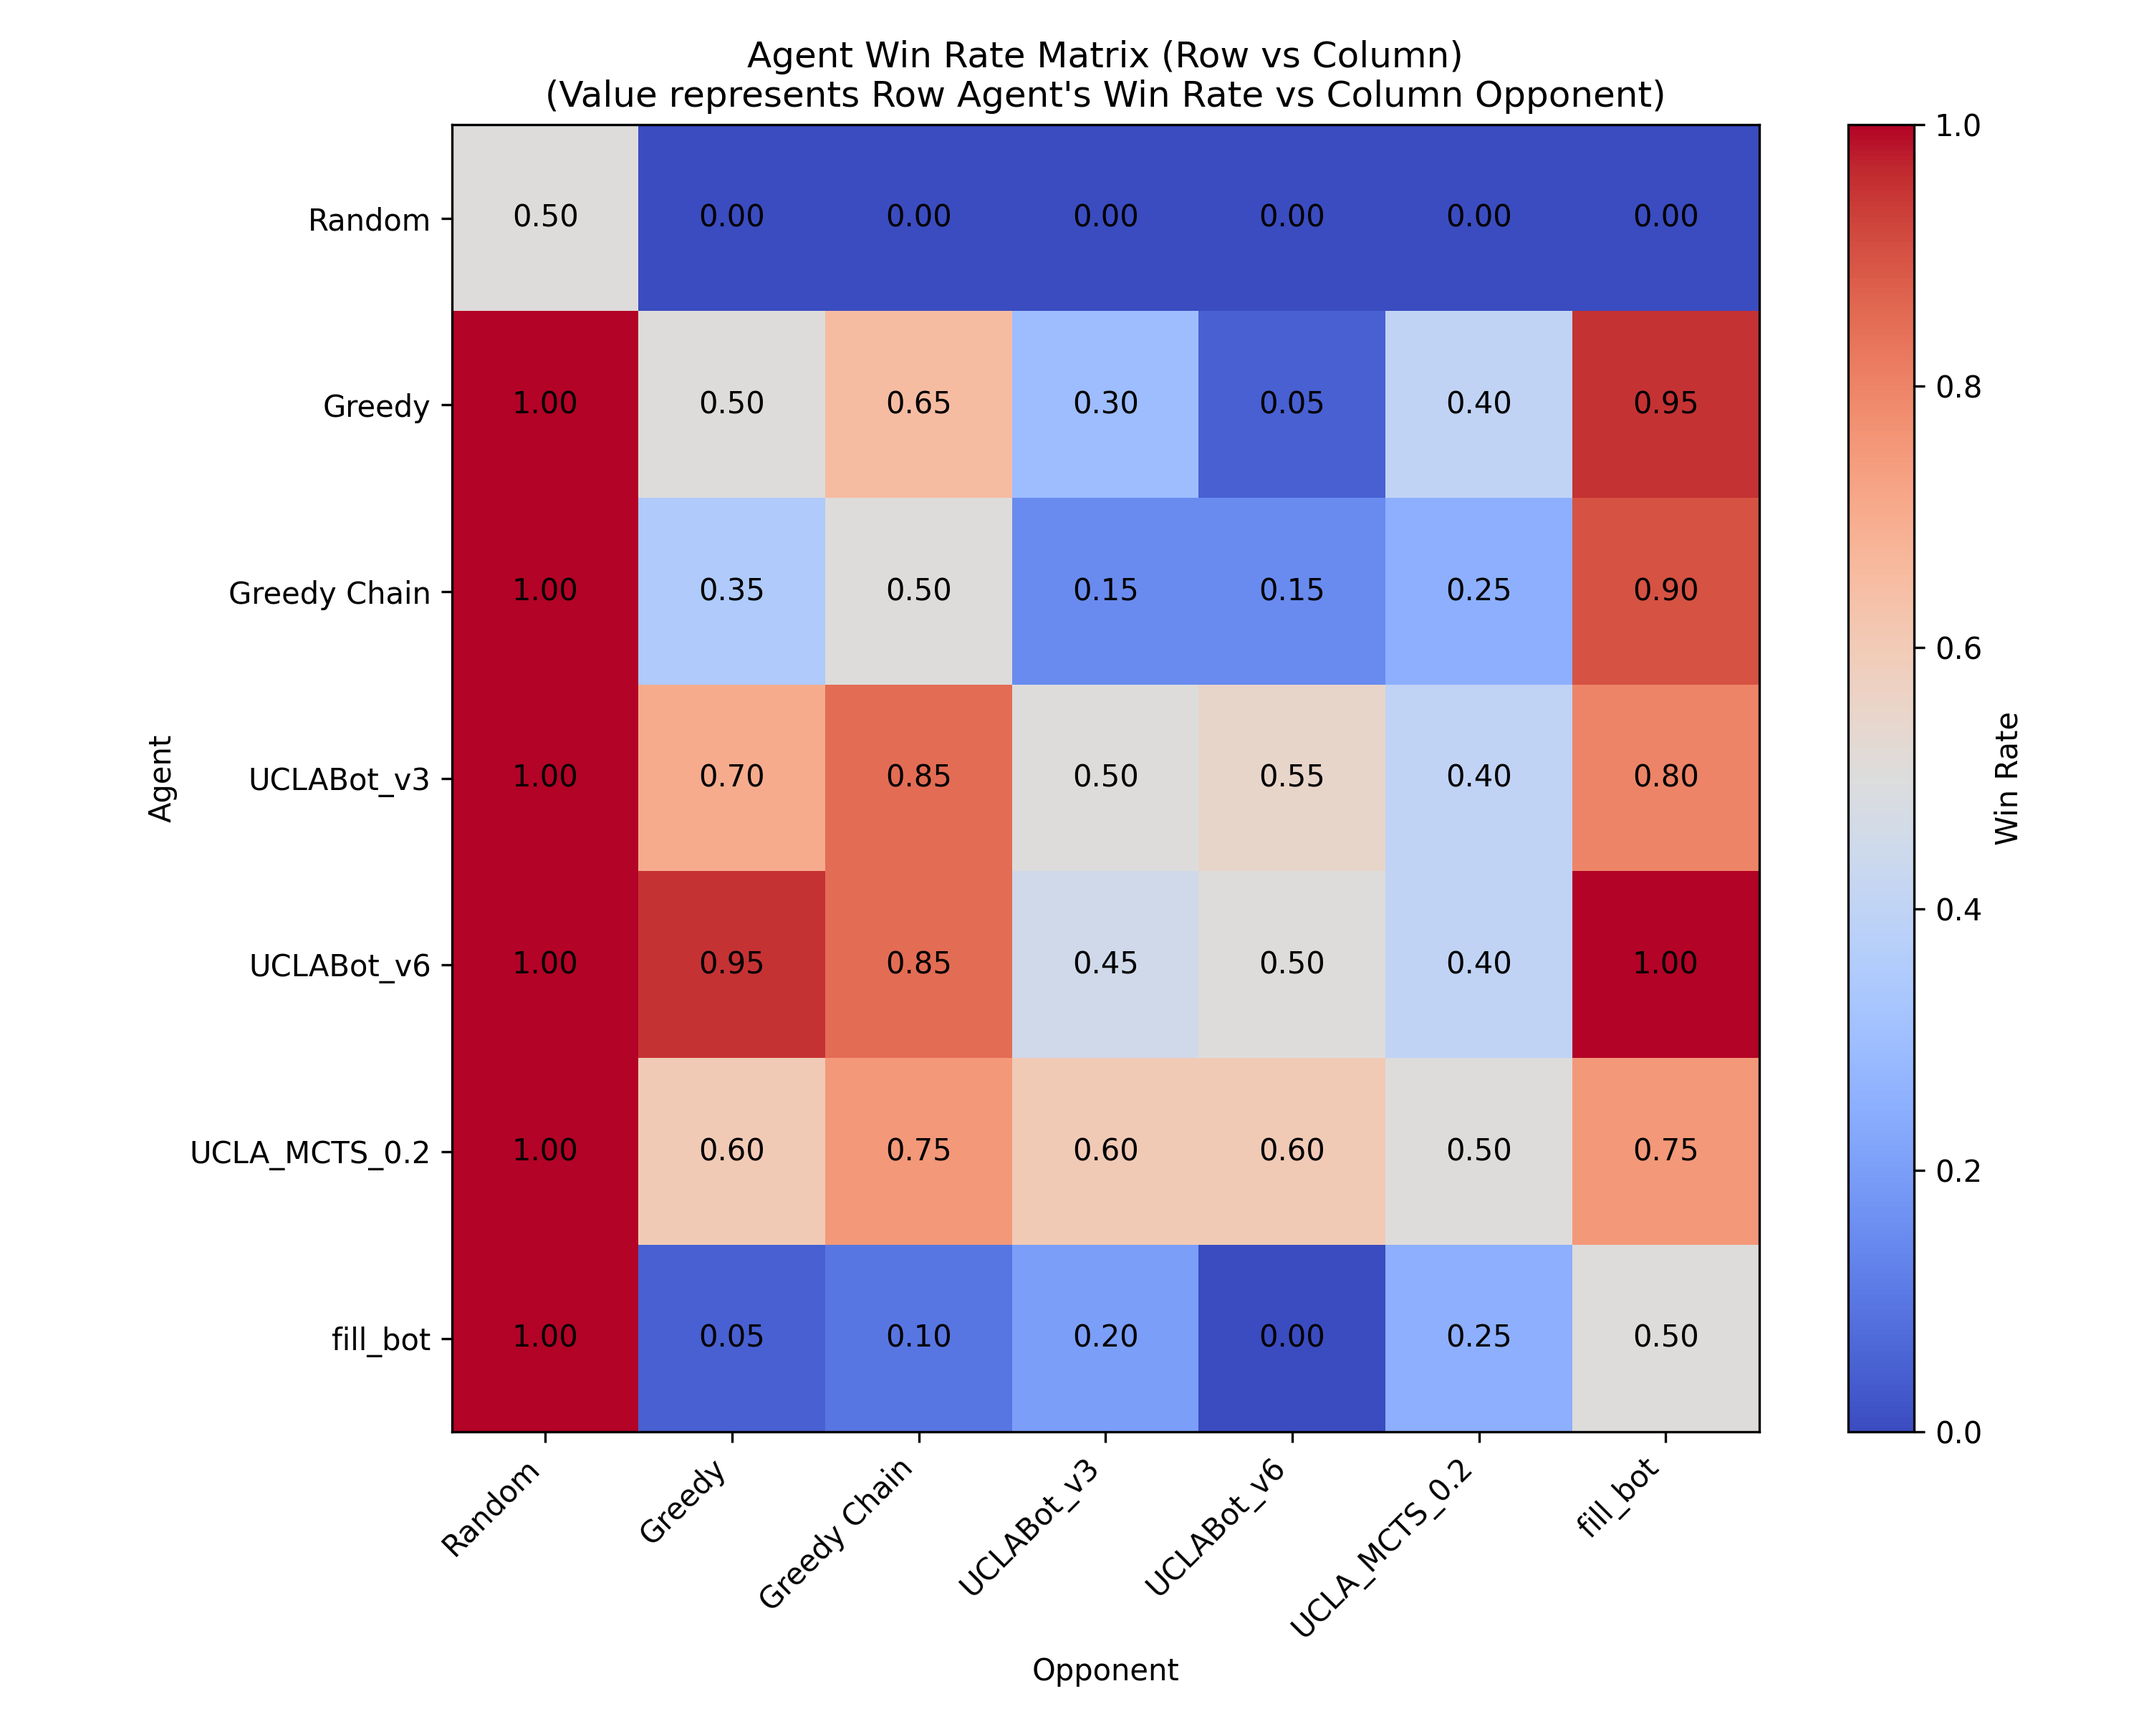
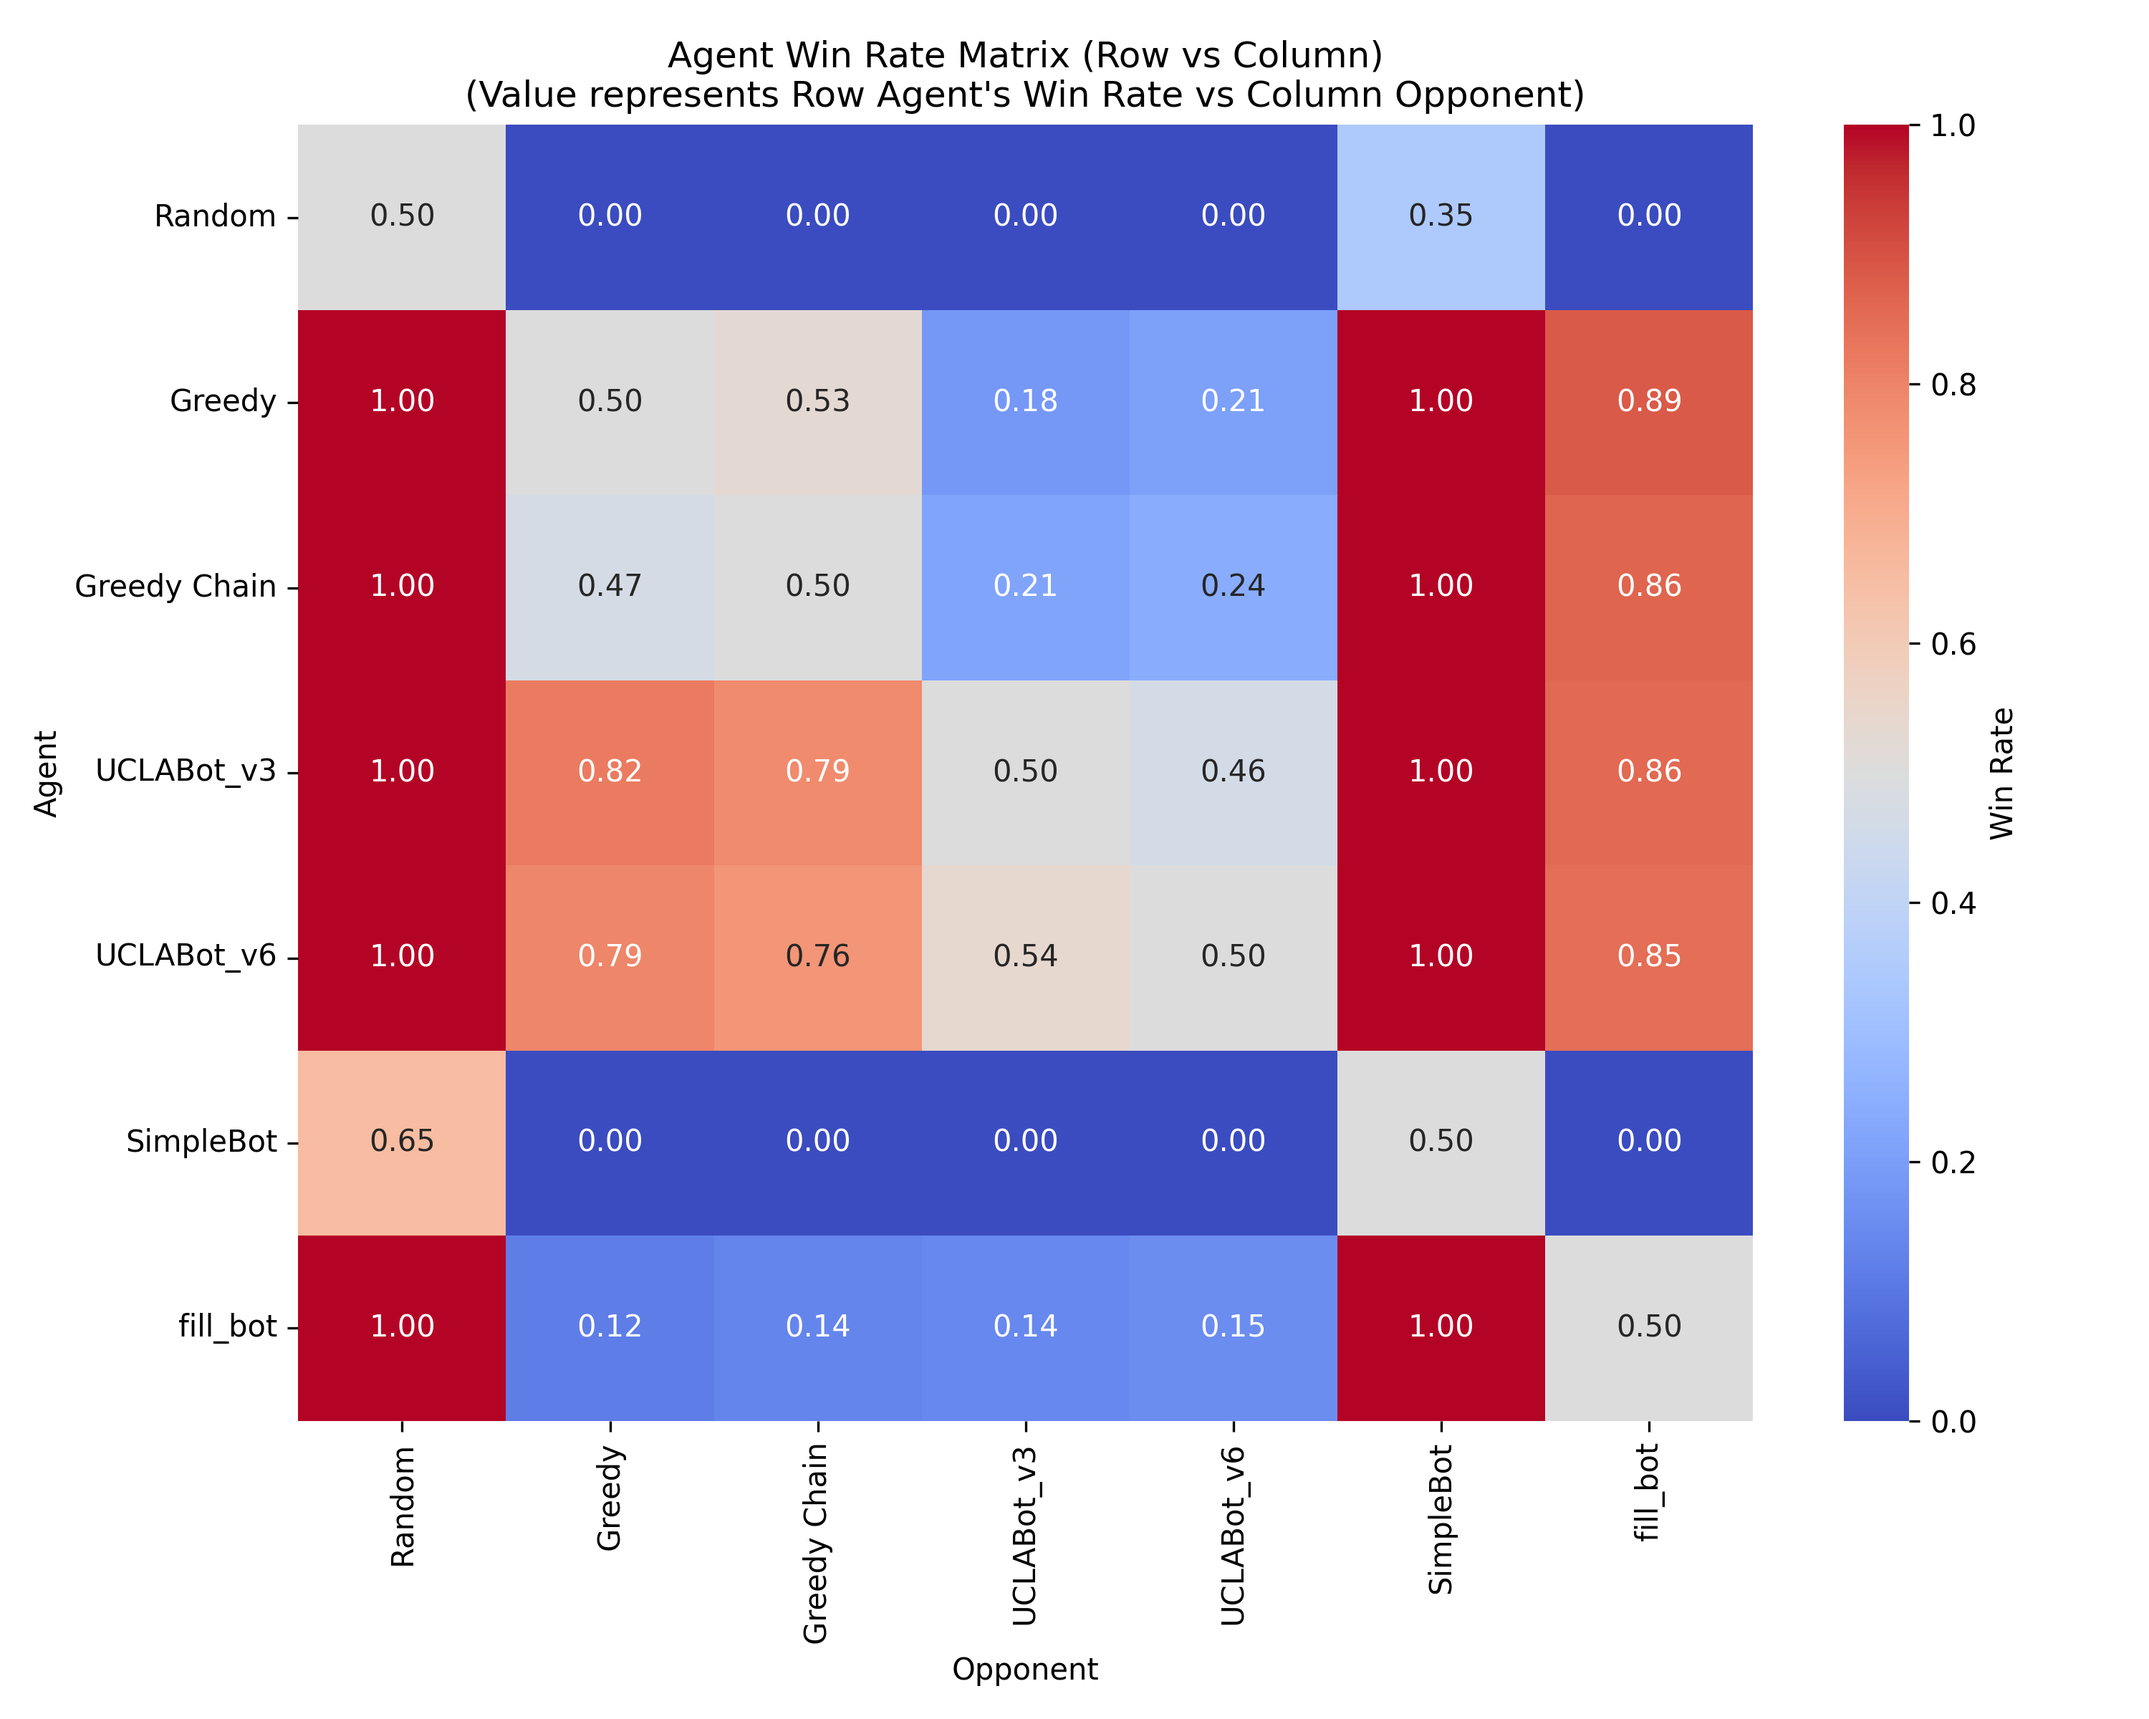
udpate tournament

diff --git a/tournament.py b/tournament.py
@@ -145,7 +145,7 @@ def run_single_matchup(args):
         agent2 = create_agent(agent2_name, size)
         # Alternate who starts to ensure fairness
         starting_player = 1 if (i % 2 == 0) else -1
-        game = DotsAndBoxesGame(size=size, starting_player=starting_player,early_stopping=True)
+        game = DotsAndBoxesGame(size=size, starting_player=starting_player,early_stopping=False)
         
         game_moves = []
         game_policies = []
@@ -222,7 +222,7 @@ def main():
     agent_names = [
         "Random", 
         "Greedy", 
-        "Greedy Chain",
+        # "Greedy Chain",
         # "Alpha-Beta (0.1s)", 
         # "Alpha-Beta (0.5s)", 
         # "Alpha-Beta v1 (0.1s)",
@@ -243,11 +243,11 @@ def main():
         # "UCLAAlphaBeta",
         # "UCLA_MCTS_100",
         # "UCLA_MCTS_200",
-        # "SimpleBot",
-        # "SimpleBot_v2",
+        "SimpleBot",
+        #"SimpleBot_v2",
         # "UCLA_MCTS_0.1",
         # "UCLA_MCTS_0.5",
-        "UCLA_MCTS_0.2",
+        #"UCLA_MCTS_0.2",
         # "ARM_bot",
         "fill_bot"
 
@@ -294,6 +294,11 @@ def main():
     with open(log_path, "a") as f_log:
         for res in results:
             a1_name, a2_name, a1_wins, a2_wins, draws, game_records, a1_moves, a1_time, a2_moves, a2_time = res
+            
+            # Actually write the game records to the JSON lines file
+            for record in game_records:
+                f_log.write(json.dumps(record) + "\n")
+                
             idx1 = name_to_idx[a1_name]
             idx2 = name_to_idx[a2_name]
             
